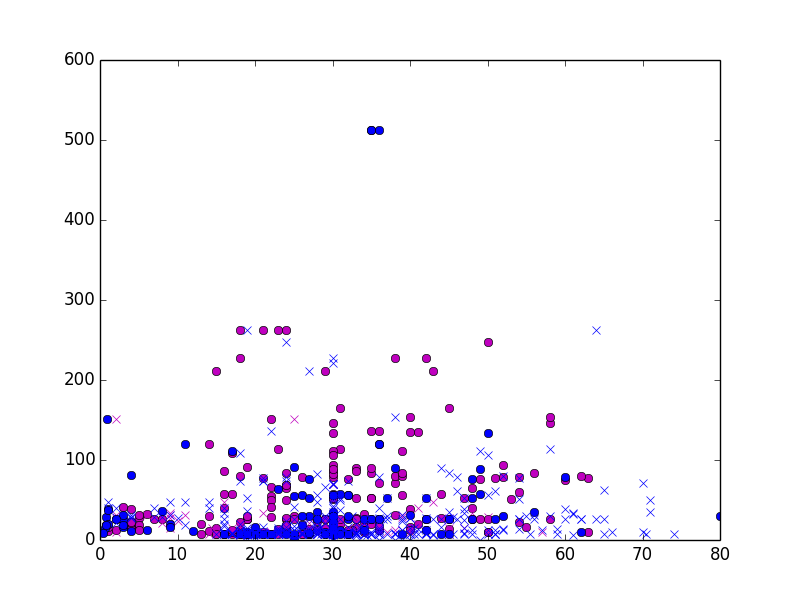
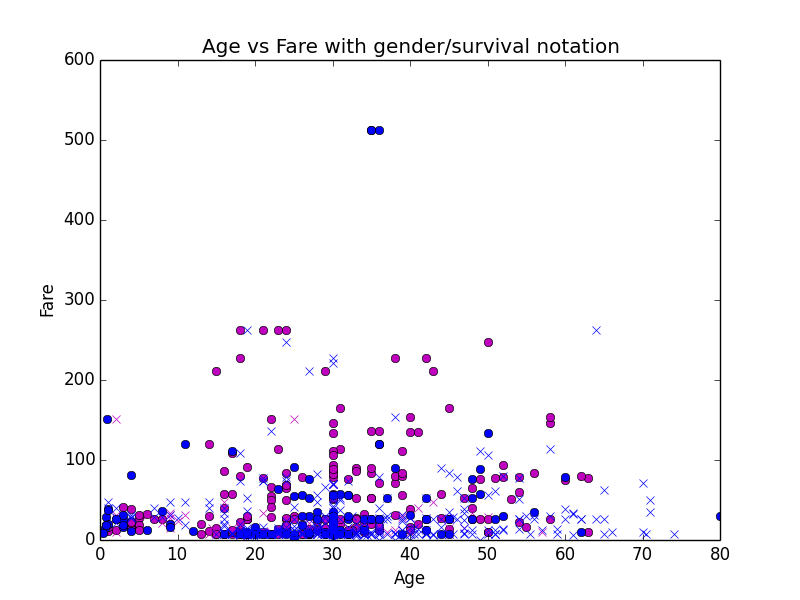
added lables to first plot

Changed region(s): [[0.25, 0.06, 0.7812, 0.09], [0.0312, 0.48, 0.0625, 0.54], [0.5, 0.96, 0.5312, 0.99]]

diff --git a/main.py b/main.py
@@ -58,30 +58,30 @@ women_only_stats = data[0::,4] == "female" 	# This finds where all the women are
 men_only_stats = data[0::,4] != "female" 	# This finds where all the men are (note != means 'not equal')
 survivor_only_stats = data[0::,1] == "1" 	# This finds where all the survivors are
 
+#Set up binary variables (gender and survival)
 wom_sur_stats = survivor_only_stats & women_only_stats
 men_sur_stats = survivor_only_stats & men_only_stats
 wom_die_stats = np.invert (survivor_only_stats) & women_only_stats
 men_die_stats = np.invert (survivor_only_stats) & men_only_stats
 
-#print data[men_die_stats, 3]
-
+## Plot Age Vs Fare with gender/survival notation
 wom_sur_age = data[wom_sur_stats,5] #.astype(np.float)
-wom_sur_age[wom_sur_age==''] = '30'
+wom_sur_age[wom_sur_age==''] = '30' #normalize unknown ages to 30.
 wom_sur_age = wom_sur_age.astype(np.float)
 wom_sur_fare = data[wom_sur_stats,9].astype(np.float)
 
 wom_die_age = data[wom_die_stats,5] #.astype(np.float)
-wom_die_age[wom_die_age==''] = '30'
+wom_die_age[wom_die_age==''] = '30' #normalize unknown ages to 30.
 wom_die_age = wom_die_age.astype(np.float)
 wom_die_fare = data[wom_die_stats,9].astype(np.float)
 
 men_sur_age = data[men_sur_stats,5] #.astype(np.float)
-men_sur_age[men_sur_age==''] = '30'
+men_sur_age[men_sur_age==''] = '30' #normalize unknown ages to 30.
 men_sur_age = men_sur_age.astype(np.float)
 men_sur_fare = data[men_sur_stats,9].astype(np.float)
 
 men_die_age = data[men_die_stats,5] #.astype(np.float)
-men_die_age[men_die_age==''] = '30'
+men_die_age[men_die_age==''] = '30' #normalize unknown ages to 30.
 men_die_age = men_die_age.astype(np.float)
 men_die_fare = data[men_die_stats,9].astype(np.float)
 
@@ -89,14 +89,33 @@ plt.plot (wom_sur_age, wom_sur_fare, 'mo')
 plt.plot (wom_die_age, wom_die_fare, 'mx')
 plt.plot (men_sur_age, men_sur_fare, 'bo')
 plt.plot (men_die_age, men_die_fare, 'bx')
+plt.xlabel ('Age')
+plt.ylabel ('Fare')
+plt.title ('Age vs Fare with gender/survival notation')
+
 plt.savefig('AgeVsFare')
 
-men_die_names = data[men_die_stats,3]
-men_die_namelen = men_die_names
+plt.clf()  # clear existing plot
+
+## plan to plot more things here...
 
 
 
+
+#########################################
 ######## End Plotting Section ###########
+#########################################
+
+
+###Build a model here...
+
+
+
+
+
+##########################################
+############ Predictions #################
+##########################################
 
 # Now that I have my indicator that women were much more likely to survive,
 # I am done with the training set.
